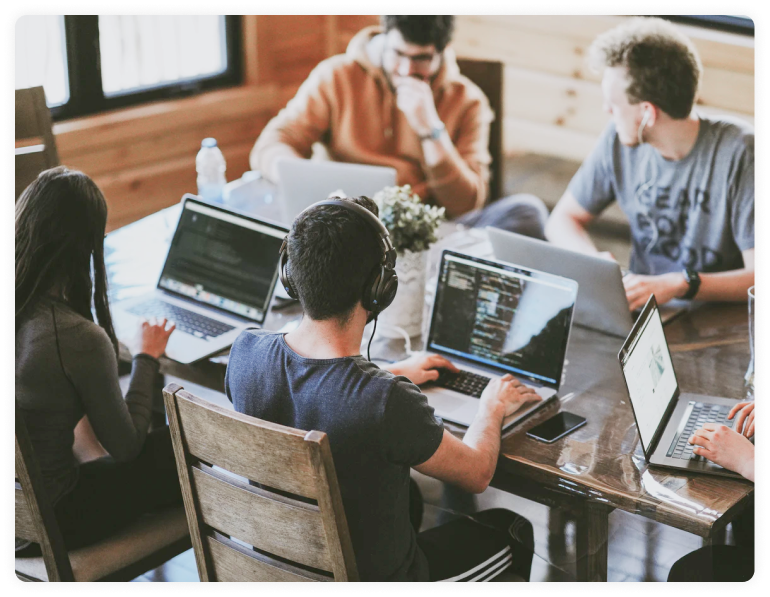
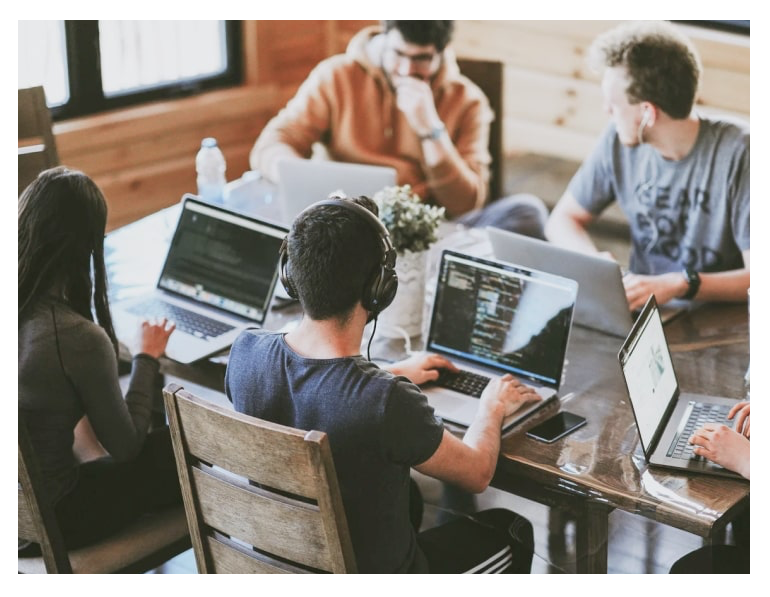
Image compression

Changed region(s): [[0.0, 0.0, 0.9974, 0.995], [0.0623, 0.0, 0.187, 0.0603]]

diff --git a/features.html b/features.html
@@ -71,7 +71,7 @@
         </div>
     </nav>
     <!-- END nav -->
-	<div class="hero-wrap hero-wrap-2" style="background-image: url('images/sf_background.png');" data-stellar-background-ratio="0.5">
+	<div class="hero-wrap hero-wrap-2" style="background-image: url('images/sf_background.jpg');" data-stellar-background-ratio="0.5">
         <div class="overlay"></div>
         <div class="container">
             <div class="row no-gutters slider-text align-items-end">
@@ -286,7 +286,7 @@
 				</div>
 			</div>
 			<div class="col-lg-3 d-flex align-items-stretch">
-				<div class="img" style="background-image: url(images/ios.png);background-position:initial;"></div>
+				<div class="img" style="background-image: url(images/ios.jpg);background-position:initial;"></div>
 			</div>
 		</div>
 	</div>

diff --git a/blog-single.html b/blog-single.html
@@ -71,7 +71,7 @@
         </div>
     </nav>
     <!-- END nav -->
-    <div class="hero-wrap hero-wrap-2" style="background-image: url('images/sf_background.png');" data-stellar-background-ratio="0.5">
+    <div class="hero-wrap hero-wrap-2" style="background-image: url('images/sf_background.jpg');" data-stellar-background-ratio="0.5">
         <div class="overlay"></div>
         <div class="container">
             <div class="row no-gutters slider-text align-items-end">

diff --git a/blog.html b/blog.html
@@ -71,7 +71,7 @@
         </div>
     </nav>
     <!-- END nav -->
-	<div class="hero-wrap hero-wrap-2" style="background-image: url('images/sf_background.png');" data-stellar-background-ratio="0.5">
+	<div class="hero-wrap hero-wrap-2" style="background-image: url('images/sf_background.jpg');" data-stellar-background-ratio="0.5">
         <div class="overlay"></div>
         <div class="container">
             <div class="row no-gutters slider-text align-items-end">

diff --git a/pricing.html b/pricing.html
@@ -71,7 +71,7 @@
         </div>
     </nav>
     <!-- END nav -->
-	<div class="hero-wrap hero-wrap-2" style="background-image: url('images/sf_background.png');" data-stellar-background-ratio="0.5">
+	<div class="hero-wrap hero-wrap-2" style="background-image: url('images/sf_background.jpg');" data-stellar-background-ratio="0.5">
         <div class="overlay"></div>
         <div class="container">
             <div class="row no-gutters slider-text align-items-end">

diff --git a/about.html b/about.html
@@ -71,7 +71,7 @@
 		</div>
 	</nav>
 	<!-- END nav -->
-	<div class="hero-wrap hero-wrap-2" style="background-image: url('images/sf_background.png');" data-stellar-background-ratio="0.5">
+	<div class="hero-wrap hero-wrap-2" style="background-image: url('images/sf_background.jpg');" data-stellar-background-ratio="0.5">
 		<div class="overlay"></div>
 		<div class="container">
 			<div class="row no-gutters slider-text align-items-end">

diff --git a/contact.html b/contact.html
@@ -71,7 +71,7 @@
 		</div>
 	</nav>
 	<!-- END nav -->
-	<div class="hero-wrap hero-wrap-2" style="background-image: url('images/sf_background.png');" data-stellar-background-ratio="0.5">
+	<div class="hero-wrap hero-wrap-2" style="background-image: url('images/sf_background.jpg');" data-stellar-background-ratio="0.5">
 		<div class="overlay"></div>
 		<div class="container">
 			<div class="row no-gutters slider-text align-items-end">

diff --git a/index.html b/index.html
@@ -369,7 +369,7 @@
 				</div>
 			</div>
 			<div class="col-lg-3 d-flex align-items-stretch">
-				<div class="img" style="background-image: url(images/ios.png);background-position:initial;"></div>
+				<div class="img" style="background-image: url(images/ios.jpg);background-position:initial;"></div>
 			</div>
 		</div>
 	</div>
